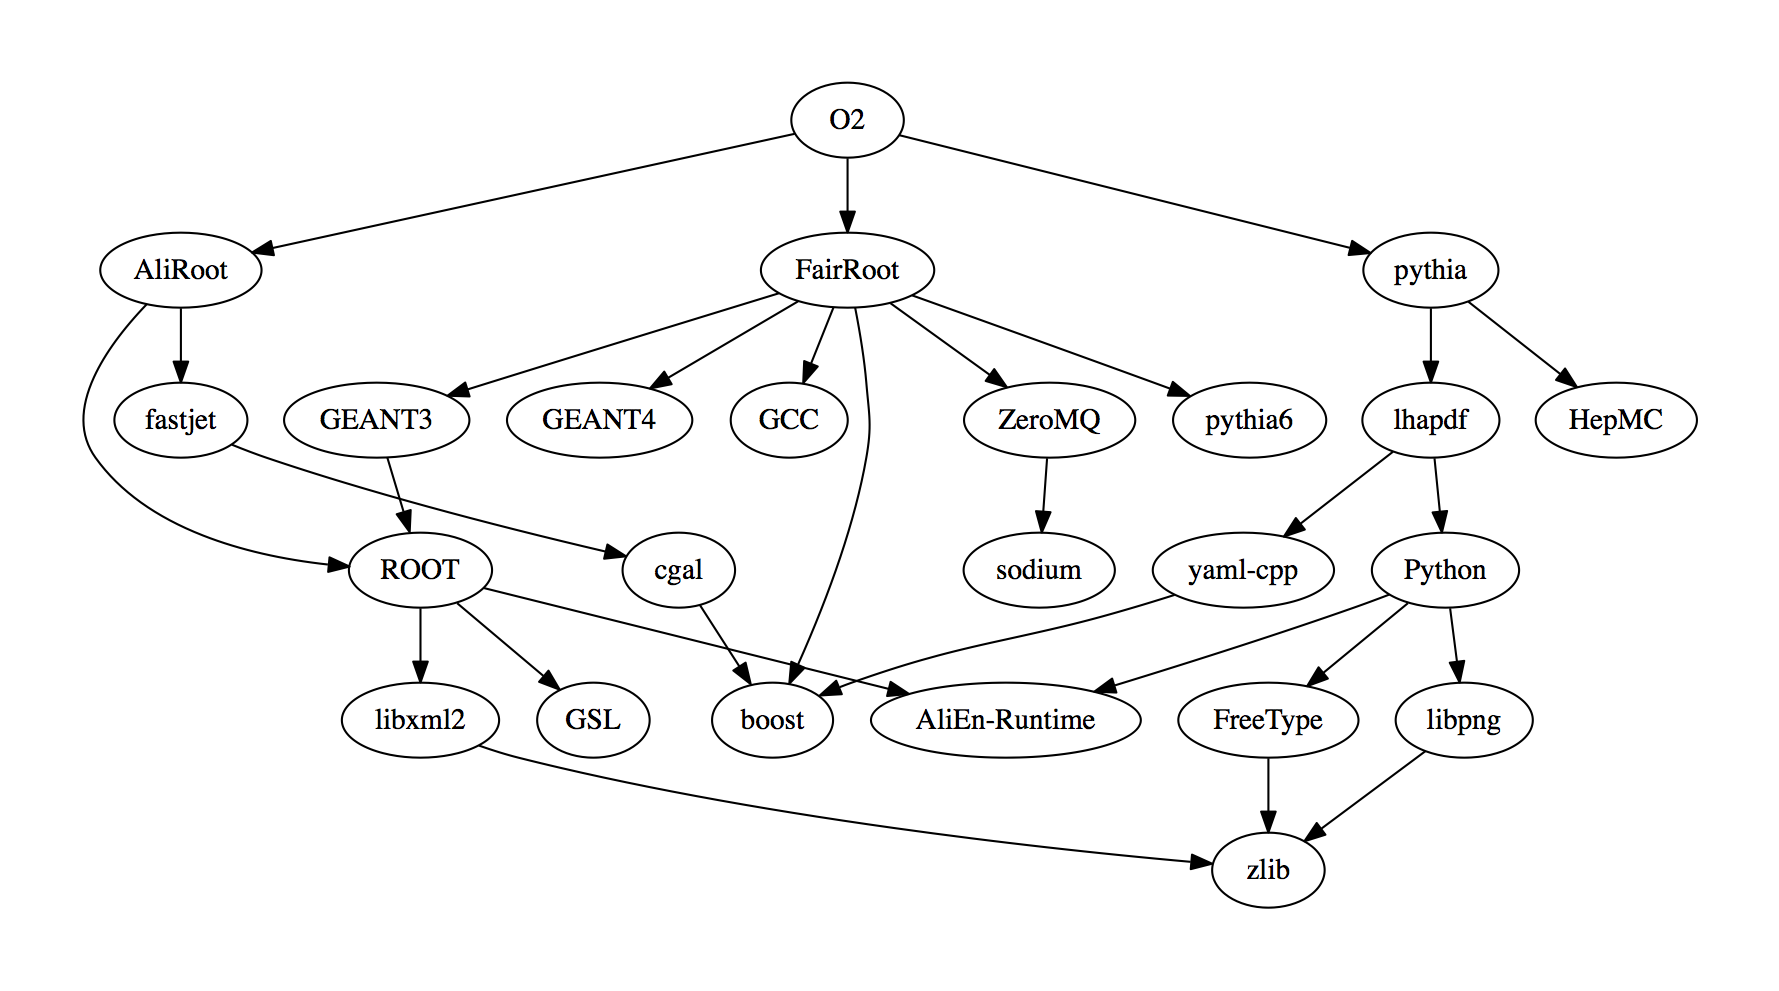
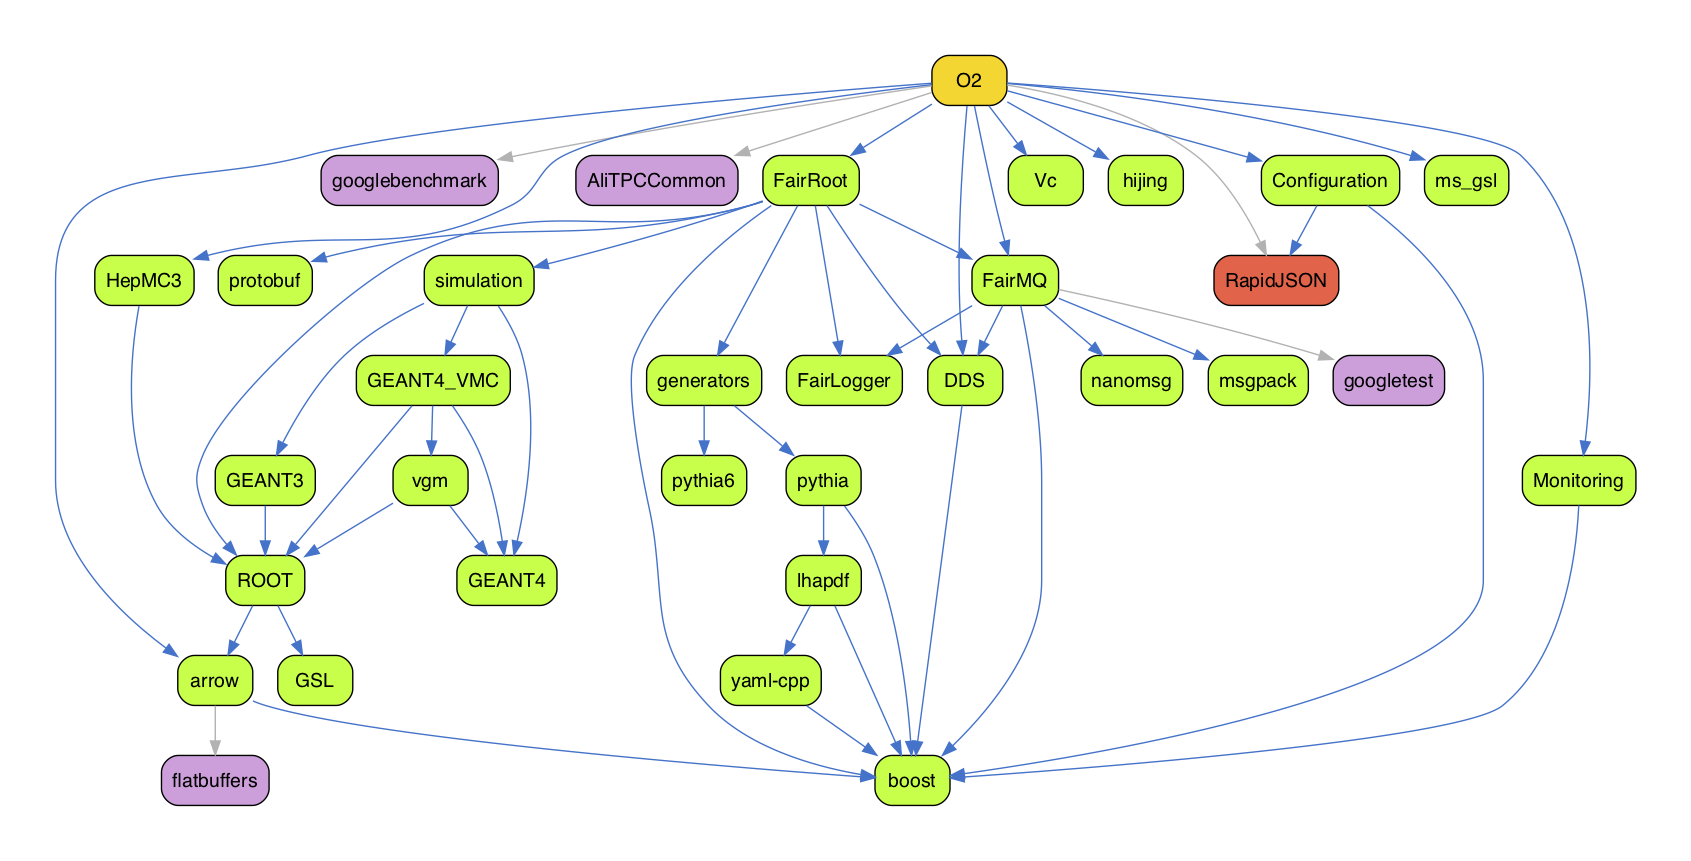
Fix and improve aliDeps
* Uses common functions for parsing defaults, system packages, overrides, etc.
* Colored output

Documentation has been updated as well

diff --git a/alibuild_helpers/deps.py b/alibuild_helpers/deps.py
@@ -1,92 +1,110 @@
 #!/usr/bin/env python
 
 from __future__ import print_function
-from glob import glob
+from alibuild_helpers.log import debug, error, banner, info, success, warning, dieOnError
+from alibuild_helpers.utilities import parseDefaults, readDefaults, getPackageList, validateDefaults, dockerStatusOutput, format
+from alibuild_helpers.cmd import getStatusOutputBash, execute
 from tempfile import NamedTemporaryFile
-import os, sys
-from alibuild_helpers.log import debug, error, info
 from os import remove
-from alibuild_helpers.utilities import format
-from alibuild_helpers.cmd import execute
-from alibuild_helpers.utilities import detectArch
-from alibuild_helpers.utilities import parseRecipe, getRecipeReader
 
-def deps(recipesDir, topPackage, outFile, buildRequires, transitiveRed, disable):
-  dot = {}
-  keys = [ "requires" ]
-  if buildRequires:
-    keys.append("build_requires")
-  for p in glob("%s/*.sh" % recipesDir):
-    debug(format("Reading file %(filename)s", filename=p))
-    try:
-      err, recipe, _ = parseRecipe(getRecipeReader(p))
-      name = recipe["package"]
-      if name in disable:
-        debug("Ignoring %s, disabled explicitly" % name)
-        continue
-    except Exception as e:
-      error(format("Error reading recipe %(filename)s: %(type)s: %(msg)s",
-                   filename=p, type=type(e).__name__, msg=str(e)))
-      sys.exit(1)
-    dot[name] = dot.get(name, [])
-    for k in keys:
-      for d in recipe.get(k, []):
-        d = d.split(":")[0]
-        d in disable or dot[name].append(d)
+def doDeps(args, parser):
 
-  selected = None
-  if topPackage != "all":
-    if not topPackage in dot:
-      error(format("Package %(topPackage)s does not exist", topPackage=topPackage))
-      return False
-    selected = [ topPackage ]
-    olen = 0
-    while len(selected) != olen:
-      olen = len(selected)
-      selected += [ x
-                    for s in selected if s in dot
-                    for x in dot[s] if not x in selected ]
-    selected.sort()
+  # Check if we have an output file
+  if not args.outgraph:
+    parser.error("Specify a PDF output file with --outgraph")
 
-  result = "digraph {\n"
-  for p,deps in list(dot.items()):
-    if selected and not p in selected: continue
-    result += "  \"%s\";\n" % p
-    for d in deps:
-      result += "  \"%s\" -> \"%s\";\n" % (p,d)
-  result += "}\n"
+  # In case we are using Docker
+  dockerImage = args.dockerImage if "dockerImage" in args else ""
+  if args.docker and not dockerImage:
+    dockerImage = "alisw/%s-builder" % args.architecture.split("_")[0]
 
-  with NamedTemporaryFile(delete=False) as fp:
-    fp.write(result)
+  # Resolve all the package parsing boilerplate
+  specs = {}
+  defaultsReader = lambda: readDefaults(args.configDir, args.defaults, parser.error)
+  (err, overrides, taps) = parseDefaults(args.disable, defaultsReader, debug)
+  (systemPackages, ownPackages, failed, validDefaults) = \
+    getPackageList(packages                = [args.package],
+                   specs                   = specs,
+                   configDir               = args.configDir,
+                   preferSystem            = args.preferSystem,
+                   noSystem                = args.noSystem,
+                   architecture            = args.architecture,
+                   disable                 = args.disable,
+                   defaults                = args.defaults,
+                   dieOnError              = dieOnError,
+                   performPreferCheck      = lambda pkg, cmd : dockerStatusOutput(cmd, dockerImage, executor = getStatusOutputBash),
+                   performRequirementCheck = lambda pkg, cmd : dockerStatusOutput(cmd, dockerImage, executor = getStatusOutputBash),
+                   performValidateDefaults = lambda spec : validateDefaults(spec, args.defaults),
+                   overrides               = overrides,
+                   taps                    = taps,
+                   log                     = debug)
+  dieOnError(validDefaults and args.defaults not in validDefaults,
+             "Specified default `%s' is not compatible with the packages you want to build.\n" % args.defaults +
+             "Valid defaults:\n\n- " +
+             "\n- ".join(sorted(validDefaults)))
+
+  for s in specs.values():
+    # Remove disabled packages
+    s["requires"] = [r for r in s["requires"] if not r in args.disable and r != "defaults-release"]
+    s["build_requires"] = [r for r in s["build_requires"] if not r in args.disable and r != "defaults-release"]
+    s["runtime_requires"] = [r for r in s["runtime_requires"] if not r in args.disable and r != "defaults-release"]
+
+  # Determine which pacakages are only build/runtime dependencies
+  all_build   = set()
+  all_runtime = set()
+  for k,spec in specs.items():
+    all_build.update(spec["build_requires"])
+    all_runtime.update(spec["runtime_requires"])
+  all_both = all_build.intersection(all_runtime)
+
+  dot = "digraph {\n"
+  for k,spec in specs.items():
+    if k == "defaults-release":
+      continue
+
+    # Determine node color based on its dependency status
+    color = None
+    if k in all_both:
+      color = "tomato1"
+    elif k in all_runtime:
+      color = "greenyellow"
+    elif k in all_build:
+      color = "plum"
+    elif k == args.package:
+      color = "gold"
+    else:
+      assert color, "This should not happen (happened for %s)" % k
+
+    # Node definition
+    dot += '"%s" [shape=box, style="rounded,filled", fontname="helvetica", fillcolor=%s]\n' % (k,color)
+
+    # Connections (different whether it's a build dependency or a runtime one)
+    for dep in spec["build_requires"]:
+     dot += '"%s" -> "%s" [color=grey70]\n' % (k, dep)
+    for dep in spec["runtime_requires"]:
+     dot += '"%s" -> "%s" [color=dodgerblue3]\n' % (k, dep)
+
+  dot += "}\n"
+
+  if args.outdot:
+    fp = open(args.outdot, "w")
+  else:
+    fp = NamedTemporaryFile(delete=False)
+  fp.write(dot)
+  fp.close()
+
   try:
-    if transitiveRed:
+    if args.neat:
       execute(format("tred %(dotFile)s > %(dotFile)s.0 && mv %(dotFile)s.0 %(dotFile)s",
               dotFile=fp.name))
-    execute(["dot", fp.name, "-Tpdf", "-o", outFile])
+    execute(["dot", fp.name, "-Tpdf", "-o", args.outgraph])
   except Exception as e:
     error(format("Error generating dependencies with dot: %(type)s: %(msg)s",
                  type=type(e).__name__, msg=str(e)))
   else:
-    info(format("Dependencies graph generated: %(outFile)s", outFile=outFile))
-  remove(fp.name)
+    info("Dependencies graph generated: %s" % args.outgraph)
+  if fp.name != args.outdot:
+    remove(fp.name)
+  else:
+    info("Intermediate dot file for Graphviz saved: %s" % args.outdot)
   return True
-
-def depsArgsParser(parser):
-  parser.add_argument("topPackage")
-  parser.add_argument("-a", "--architecture", help="force architecture",
-                      dest="architecture", default=detectArch())
-  parser.add_argument("--dist", dest="distDir", default="alidist",
-                      help="Recipes directory")
-  parser.add_argument("--output-file", "-o", dest="outFile", default="dist.pdf",
-                      help="Output file (PDF format)")
-  parser.add_argument("--debug", "-d", dest="debug", action="store_true", default=False,
-                      help="Debug output")
-  parser.add_argument("--build-requires", "-b", dest="buildRequires", action="store_true",
-                      default=False, help="Debug output")
-  parser.add_argument("--neat", dest="neat", action="store_true", default=False,
-                      help="Neat graph with transitive reduction")
-  parser.add_argument("--disable", dest="disable", default=[],
-                      help="List of packages to ignore")
-  parser.add_argument("--chdir", "-C", help="Change to the specified directory first",
-                      metavar="DIR", dest="chdir", default=os.environ.get("ALIBUILD_CHDIR", "."))
-  return parser

diff --git a/alibuild_helpers/args.py b/alibuild_helpers/args.py
@@ -1,7 +1,6 @@
 import argparse
 from alibuild_helpers.utilities import format, detectArch
 from alibuild_helpers.doctor import doctorArgParser
-from alibuild_helpers.deps import depsArgsParser
 from alibuild_helpers.utilities import normalise_multiple_options
 
 import re
@@ -133,7 +132,30 @@ def doParseArgs(star):
                             metavar="DIR", dest="chdir", default=DEFAULT_CHDIR)
 
   # Options for the deps subcommand
-  deps_parser = depsArgsParser(deps_parser)
+  deps_parser.add_argument("package",
+                           help="Calculate dependency tree for that package")
+  deps_parser.add_argument("--neat", dest="neat", action="store_true", default=False,
+                           help="Neat graph with transitive reduction")
+  deps_parser.add_argument("--outdot", dest="outdot",
+                           help="Keep intermediate Graphviz dot file with this name")
+  deps_parser.add_argument("--outgraph", dest="outgraph",
+                           help="Output file (PDF)")
+  deps_parser.add_argument("-c", "--config", dest="configDir", default="alidist",
+                           help="Path to alidist")
+  deps_parser.add_argument("--defaults", dest="defaults", default="release",
+                           help="Specify which defaults to use")
+  deps_parser.add_argument("--disable", dest="disable", default=[], metavar="PKG", action="append",
+                           help="Do not build PACKAGE and all its (unique) dependencies")
+  deps_parser.add_argument("--docker", dest="docker", action="store_true", default=False)
+  deps_parser.add_argument("--docker-image", dest="dockerImage",
+                           help="Image to use in case you build with docker (implies --docker-image)")
+  deps_parser.add_argument("--architecture", "-a", dest="architecture", default=detectArch(),
+                           help="Architecture")
+  deps_group = deps_parser.add_mutually_exclusive_group()
+  deps_group.add_argument("--always-prefer-system", dest="preferSystem", default=False,
+                     action="store_true", help="Always use system packages when compatible")
+  deps_group.add_argument("--no-system", dest="noSystem", default=False,
+                     action="store_true", help="Never use system packages")
 
   # Options for the doctor subcommand
   doctor_parser = doctorArgParser(doctor_parser)

diff --git a/tests/test_args.py b/tests/test_args.py
@@ -82,7 +82,7 @@ CORRECT_BEHAVIOR = [
   (("sw3", "mydir"), "init"                               , [("action", "init"), ("workDir", "sw3"), ("referenceSources", "sw3/MIRROR"), ("chdir", "mydir")]),
   (("sw", ".")     , "clean --chdir mydir2 --work-dir sw4", [("action", "clean"), ("workDir", "sw4"), ("referenceSources", "sw4/MIRROR"), ("chdir", "mydir2")]),
   (()              , "doctor zlib -C mydir -w sw2"        , [("action", "doctor"), ("workDir", "sw2"), ("chdir", "mydir")]),
-  (()              , "deps zlib -C mydir"                 , [("action", "deps"), ("chdir", "mydir")]),
+  (()              , "deps zlib --outgraph graph.pdf"     , [("action", "deps"), ("outgraph", "graph.pdf")]),
 ]
 
 GETSTATUSOUTPUT_MOCKS = {

diff --git a/alibuild_helpers/init.py b/alibuild_helpers/init.py
@@ -59,7 +59,7 @@ def doInit(args):
                                          architecture="",
                                          disable=[],
                                          defaults=args.defaults,
-                                         dieOnError=lambda *x, **y: None,
+                                         dieOnError=dieOnError,
                                          performPreferCheck=lambda *x, **y: (1, ""),
                                          performRequirementCheck=lambda *x, **y: (0, ""),
                                          performValidateDefaults=lambda spec : validateDefaults(spec, args.defaults),
